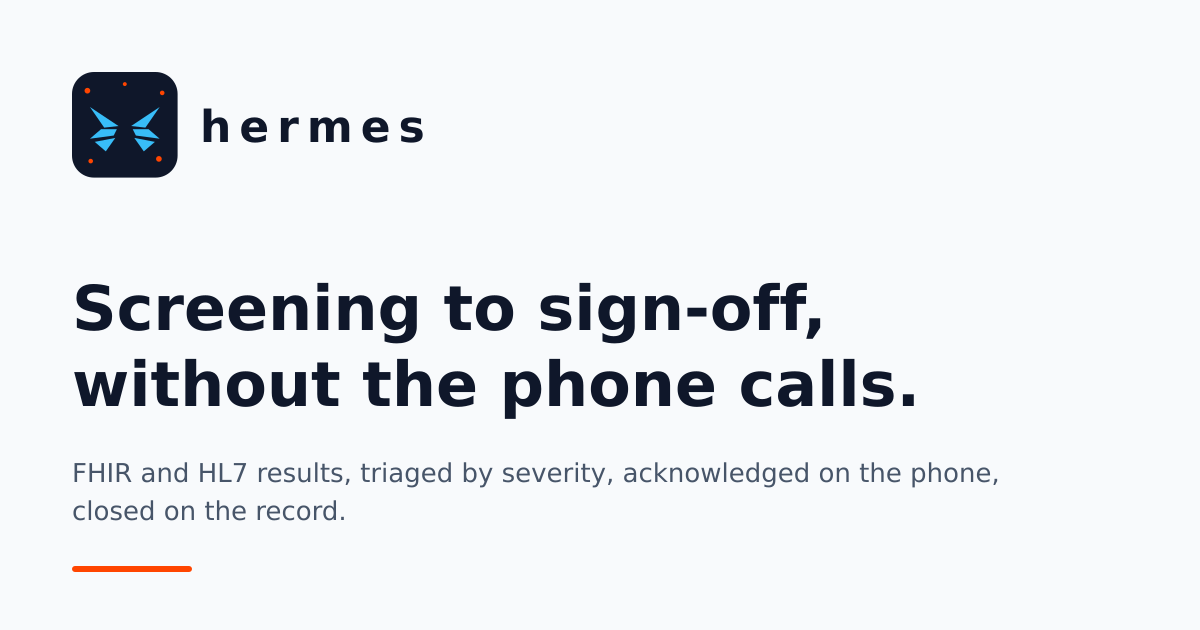
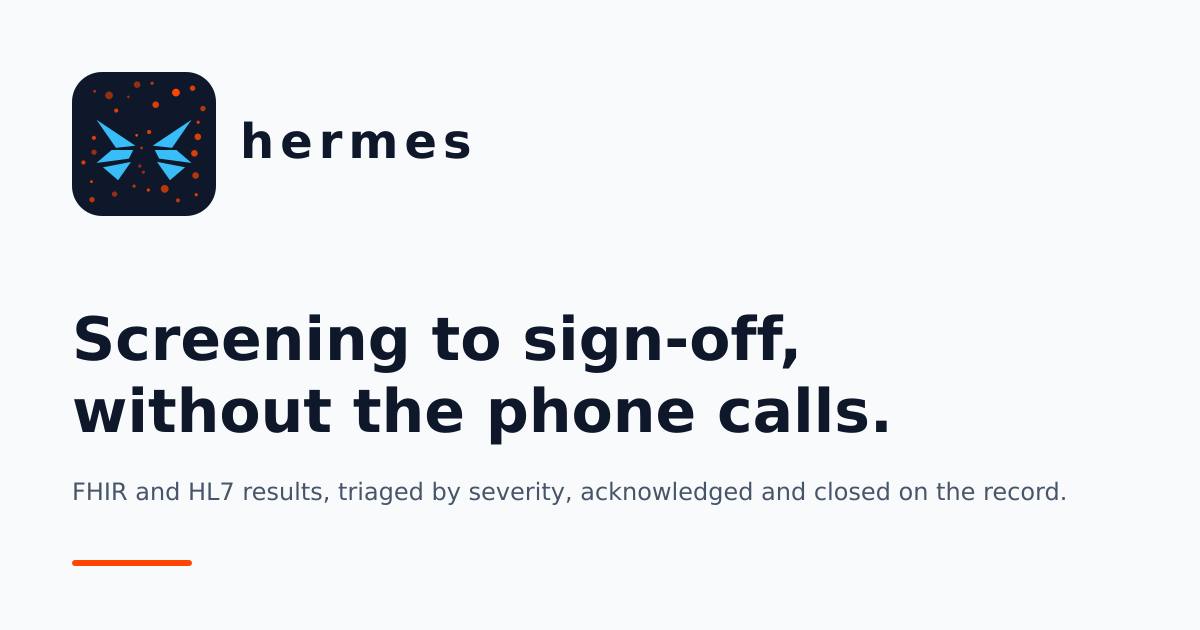
fix(brand): use the traced marks from the brand board
The board's tiles carry a spark centre (heart, plus, shield) and a loose
particle field on the core tile, which the exported assets now match exactly.
Mobile icons move to public/core with the same app.json wiring as Pennywise,
and the admin surface picks up the shield mark.

diff --git a/apps/web/src/features/shared/components/brand/hermes-mark.tsx b/apps/web/src/features/shared/components/brand/hermes-mark.tsx
@@ -1,9 +1,11 @@
 import type { ReactNode } from "react";
+import { HERMES_PARTICLES } from "@/features/shared/components/brand/hermes-particles";
 
 /**
- * The four Hermes tiles. `core` is the formless mark (orange particles around
- * sky wings); the three product marks are where it takes shape — heart for the
- * patient app, plus for the clinic dashboard, shield for admin.
+ * The four Hermes tiles, traced from the brand board. `core` is the formless
+ * mark — sky wings inside a loose particle field of spark dots. The product
+ * marks are where it takes shape: heart (patient app), plus (clinic dashboard),
+ * shield on a hexagon (admin).
  */
 export type HermesMarkVariant = "core" | "patient" | "clinic" | "admin";
 
@@ -16,7 +18,6 @@ interface HermesMarkProps {
 export const SPARK = "#FF4500";
 export const INK = "#0F172A";
 export const WING = "#38BDF8";
-export const CHALK = "#F8FAFC";
 
 interface WingProps {
   transform?: string;
@@ -37,22 +38,16 @@ const Wings = (): ReactNode => (
   </g>
 );
 
-/**
- * Particle rule: dots never touch the wings and never sit in the middle of the
- * tile. They gather in the corners, outside the wing span.
- */
-const PARTICLES: ReadonlyArray<{ cx: number; cy: number; r: number }> = [
-  { cx: 14, cy: 17, r: 2.6 },
-  { cx: 48, cy: 11, r: 1.8 },
-  { cx: 82, cy: 19, r: 2.1 },
-  { cx: 17, cy: 81, r: 2.1 },
-  { cx: 79, cy: 79, r: 2.6 },
-];
-
-const Particles = (): ReactNode => (
+const PARTICLES_NODE = (
   <g fill={SPARK}>
-    {PARTICLES.map((dot) => (
-      <circle key={`${dot.cx}-${dot.cy}`} {...dot} />
+    {HERMES_PARTICLES.map((dot) => (
+      <circle
+        key={`${dot.cx}-${dot.cy}`}
+        cx={dot.cx}
+        cy={dot.cy}
+        r={dot.r}
+        opacity={dot.o}
+      />
     ))}
   </g>
 );
@@ -62,7 +57,7 @@ const ACCENTS: Partial<Record<HermesMarkVariant, string>> = {
     "M48 62 C41 57 40 50 44 48.5 C46 47.8 48 49 48 50.5 C48 49 50 47.8 52 48.5 C56 50 55 57 48 62 Z",
   clinic: "M45 49 h6 v5 h5 v6 h-5 v5 h-6 v-5 h-5 v-6 h5 z",
   admin:
-    "M48 44 Q52 45 56 44 C56 53 52 59 48 63 C44 59 40 53 40 44 Q44 45 48 44 Z",
+    "M 48 40 Q 52 44, 57 42 C 57 52, 52 59, 48 64 C 44 59, 39 52, 39 42 Q 44 44, 48 40 Z",
 };
 
 const BASE: Record<HermesMarkVariant, ReactNode> = {
@@ -96,9 +91,16 @@ export const HermesMark = ({
     <title>{title}</title>
     {BASE[variant]}
     <Wings />
-    {variant === "core" ? <Particles /> : null}
+    {variant === "core" ? PARTICLES_NODE : null}
     {ACCENTS[variant] === undefined ? null : (
-      <path d={ACCENTS[variant]} fill={CHALK} />
+      <path
+        d={ACCENTS[variant]}
+        fill={SPARK}
+        stroke={INK}
+        strokeWidth="3"
+        strokeLinejoin="round"
+        paintOrder="stroke"
+      />
     )}
   </svg>
 );

diff --git a/apps/mobile/components/brand/hermes-mark.tsx b/apps/mobile/components/brand/hermes-mark.tsx
@@ -1,16 +1,16 @@
 import type * as React from "react";
 import Svg, { Circle, G, Path, Rect } from "react-native-svg";
+import { HERMES_PARTICLES } from "@/components/brand/hermes-particles";
 
 /**
- * The four Hermes tiles, mirroring apps/web: `core` is the formless mark with
- * orange particles, then heart (patient), plus (clinic) and shield (admin).
+ * The four Hermes tiles, traced from the brand board: the formless core field,
+ * then heart (patient app), plus (clinic dashboard) and shield (admin).
  */
 export type HermesMarkVariant = "core" | "patient" | "clinic" | "admin";
 
 const INK = "#0F172A";
 const WING = "#38BDF8";
 const SPARK = "#FF4500";
-const CHALK = "#F8FAFC";
 
 const WINGS = [
   "M56 48 L92 24 L74 50 Z",
@@ -21,21 +21,12 @@ const WINGS = [
 const WING_TRANSFORM = "translate(48 52) scale(0.72) translate(-48 -52)";
 const MIRROR_TRANSFORM = "translate(96 0) scale(-1 1)";
 
-/* Particles gather in the corners: never touching the wings, never centred. */
-const PARTICLES = [
-  { cx: 14, cy: 17, r: 2.6 },
-  { cx: 48, cy: 11, r: 1.8 },
-  { cx: 82, cy: 19, r: 2.1 },
-  { cx: 17, cy: 81, r: 2.1 },
-  { cx: 79, cy: 79, r: 2.6 },
-];
-
 const ACCENTS: Partial<Record<HermesMarkVariant, string>> = {
   patient:
     "M48 62 C41 57 40 50 44 48.5 C46 47.8 48 49 48 50.5 C48 49 50 47.8 52 48.5 C56 50 55 57 48 62 Z",
   clinic: "M45 49 h6 v5 h5 v6 h-5 v5 h-6 v-5 h-5 v-6 h5 z",
   admin:
-    "M48 44 Q52 45 56 44 C56 53 52 59 48 63 C44 59 40 53 40 44 Q44 45 48 44 Z",
+    "M 48 40 Q 52 44, 57 42 C 57 52, 52 59, 48 64 C 44 59, 39 52, 39 42 Q 44 44, 48 40 Z",
 };
 
 interface HermesMarkProps {
@@ -79,12 +70,25 @@ export const HermesMark = ({
       </G>
     </G>
     {variant === "core"
-      ? PARTICLES.map((dot) => (
-          <Circle key={`${dot.cx}-${dot.cy}`} {...dot} fill={SPARK} />
+      ? HERMES_PARTICLES.map((dot) => (
+          <Circle
+            key={`${dot.cx}-${dot.cy}`}
+            cx={dot.cx}
+            cy={dot.cy}
+            r={dot.r}
+            fill={SPARK}
+            opacity={dot.o}
+          />
         ))
       : null}
     {ACCENTS[variant] === undefined ? null : (
-      <Path d={ACCENTS[variant]} fill={CHALK} />
+      <Path
+        d={ACCENTS[variant]}
+        fill={SPARK}
+        stroke={INK}
+        strokeWidth={3}
+        strokeLinejoin="round"
+      />
     )}
   </Svg>
 );

diff --git a/apps/mobile/components/brand/hermes-particles.ts b/apps/mobile/components/brand/hermes-particles.ts
@@ -1,0 +1,43 @@
+/**
+ * Particle field from the brand board's core sheet. Dots gather in the corners
+ * and along the edges — they never touch the wings.
+ */
+export interface HermesParticle {
+  cx: number;
+  cy: number;
+  r: number;
+  o: number;
+}
+
+export const HERMES_PARTICLES: readonly HermesParticle[] = [
+  { cx: 46.4, cy: 50.6, r: 0.9, o: 0.7 },
+  { cx: 43.1, cy: 42.2, r: 0.9, o: 1 },
+  { cx: 45.2, cy: 62.7, r: 1.1, o: 0.55 },
+  { cx: 51.4, cy: 40, r: 1.4, o: 0.85 },
+  { cx: 47.6, cy: 66.8, r: 1.1, o: 0.55 },
+  { cx: 14.7, cy: 53.5, r: 1.8, o: 0.55 },
+  { cx: 14.6, cy: 43.9, r: 1.4, o: 0.85 },
+  { cx: 83.9, cy: 43.2, r: 2.2, o: 0.85 },
+  { cx: 84.1, cy: 33.5, r: 1.1, o: 0.85 },
+  { cx: 7.6, cy: 60.3, r: 1.4, o: 0.85 },
+  { cx: 81.6, cy: 54.2, r: 2.2, o: 0.85 },
+  { cx: 82.4, cy: 69, r: 2.2, o: 0.7 },
+  { cx: 13, cy: 73.1, r: 0.9, o: 1 },
+  { cx: 50.9, cy: 78.7, r: 1.1, o: 0.85 },
+  { cx: 24.7, cy: 15.6, r: 2.6, o: 0.55 },
+  { cx: 69.3, cy: 13.7, r: 2.6, o: 1 },
+  { cx: 37.6, cy: 16.6, r: 0.9, o: 0.55 },
+  { cx: 70.6, cy: 85.6, r: 1.4, o: 0.7 },
+  { cx: 15.1, cy: 12.9, r: 0.9, o: 0.7 },
+  { cx: 28.4, cy: 81.4, r: 1.8, o: 0.55 },
+  { cx: 13.3, cy: 85.1, r: 1.8, o: 0.7 },
+  { cx: 53.4, cy: 7.5, r: 1.1, o: 0.7 },
+  { cx: 29.5, cy: 25.7, r: 1.4, o: 0.85 },
+  { cx: 55.8, cy: 21.8, r: 2.2, o: 0.85 },
+  { cx: 87.3, cy: 24.4, r: 1.8, o: 0.7 },
+  { cx: 82.8, cy: 81.8, r: 1.1, o: 0.85 },
+  { cx: 80.4, cy: 10.8, r: 1.8, o: 0.85 },
+  { cx: 61.8, cy: 77.9, r: 2.6, o: 0.7 },
+  { cx: 43.4, cy: 8.4, r: 2.2, o: 0.55 },
+  { cx: 41.4, cy: 76.1, r: 1.1, o: 0.7 },
+];

diff --git a/apps/web/src/features/shared/components/brand/hermes-particles.ts b/apps/web/src/features/shared/components/brand/hermes-particles.ts
@@ -1,0 +1,43 @@
+/**
+ * Particle field from the brand board's core sheet. Dots gather in the corners
+ * and along the edges — they never touch the wings.
+ */
+export interface HermesParticle {
+  cx: number;
+  cy: number;
+  r: number;
+  o: number;
+}
+
+export const HERMES_PARTICLES: readonly HermesParticle[] = [
+  { cx: 46.4, cy: 50.6, r: 0.9, o: 0.7 },
+  { cx: 43.1, cy: 42.2, r: 0.9, o: 1 },
+  { cx: 45.2, cy: 62.7, r: 1.1, o: 0.55 },
+  { cx: 51.4, cy: 40, r: 1.4, o: 0.85 },
+  { cx: 47.6, cy: 66.8, r: 1.1, o: 0.55 },
+  { cx: 14.7, cy: 53.5, r: 1.8, o: 0.55 },
+  { cx: 14.6, cy: 43.9, r: 1.4, o: 0.85 },
+  { cx: 83.9, cy: 43.2, r: 2.2, o: 0.85 },
+  { cx: 84.1, cy: 33.5, r: 1.1, o: 0.85 },
+  { cx: 7.6, cy: 60.3, r: 1.4, o: 0.85 },
+  { cx: 81.6, cy: 54.2, r: 2.2, o: 0.85 },
+  { cx: 82.4, cy: 69, r: 2.2, o: 0.7 },
+  { cx: 13, cy: 73.1, r: 0.9, o: 1 },
+  { cx: 50.9, cy: 78.7, r: 1.1, o: 0.85 },
+  { cx: 24.7, cy: 15.6, r: 2.6, o: 0.55 },
+  { cx: 69.3, cy: 13.7, r: 2.6, o: 1 },
+  { cx: 37.6, cy: 16.6, r: 0.9, o: 0.55 },
+  { cx: 70.6, cy: 85.6, r: 1.4, o: 0.7 },
+  { cx: 15.1, cy: 12.9, r: 0.9, o: 0.7 },
+  { cx: 28.4, cy: 81.4, r: 1.8, o: 0.55 },
+  { cx: 13.3, cy: 85.1, r: 1.8, o: 0.7 },
+  { cx: 53.4, cy: 7.5, r: 1.1, o: 0.7 },
+  { cx: 29.5, cy: 25.7, r: 1.4, o: 0.85 },
+  { cx: 55.8, cy: 21.8, r: 2.2, o: 0.85 },
+  { cx: 87.3, cy: 24.4, r: 1.8, o: 0.7 },
+  { cx: 82.8, cy: 81.8, r: 1.1, o: 0.85 },
+  { cx: 80.4, cy: 10.8, r: 1.8, o: 0.85 },
+  { cx: 61.8, cy: 77.9, r: 2.6, o: 0.7 },
+  { cx: 43.4, cy: 8.4, r: 2.2, o: 0.55 },
+  { cx: 41.4, cy: 76.1, r: 1.1, o: 0.7 },
+];

diff --git a/apps/web/src/features/shared/components/layout/app-navbar.tsx b/apps/web/src/features/shared/components/layout/app-navbar.tsx
@@ -76,6 +76,11 @@ export const AppNavbar = ({
 }: AppNavbarProps): ReactNode => {
   const pathname = usePathname();
   const items = NAV_ITEMS.filter((item) => item.adminOnly !== true || isAdmin);
+  // Right mark for the surface: the clinic plus inside the care dashboard,
+  // the admin shield once you are in administration.
+  const surface: "clinic" | "admin" = pathname.startsWith("/admin")
+    ? "admin"
+    : "clinic";
 
   return (
     <AppShellNavbar
@@ -107,7 +112,11 @@ export const AppNavbar = ({
             padding: isExpanded ? "14px 16px" : "14px 0",
           }}
         >
-          <HermesMark variant="clinic" size={32} />
+          <HermesMark
+            variant={surface}
+            size={32}
+            title={surface === "admin" ? "Hermes admin" : "Hermes clinic"}
+          />
           {isExpanded ? <HermesWordmark size={18} /> : null}
         </UnstyledButton>
 
